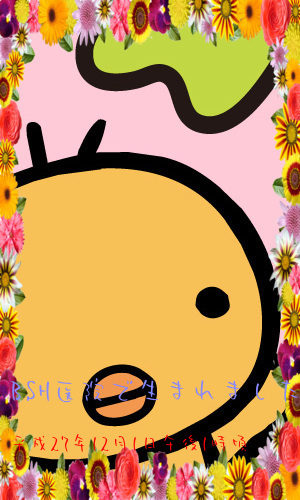
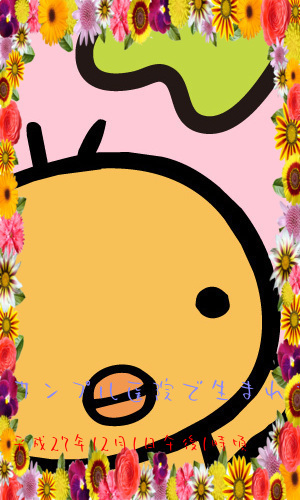
サンプル追加

Changed region(s): [[0.27, 0.75, 0.99, 0.81], [0.03, 0.75, 0.24, 0.81], [0.99, 0.75, 1.0, 0.78]]

diff --git a/src/jp/co/comster/im4j/sample/StringTestImageSample.java b/src/jp/co/comster/im4j/sample/StringTestImageSample.java
@@ -1,0 +1,96 @@
+package jp.co.comster.im4j.sample;
+
+import java.io.File;
+import java.text.SimpleDateFormat;
+import java.util.Date;
+
+import org.im4java.core.ConvertCmd;
+import org.im4java.core.IMOperation;
+
+public class StringTestImageSample {
+
+
+    public static void main(String[] args) throws Exception {
+
+		final SimpleDateFormat sdf = new SimpleDateFormat("yyyy/MM/dd HH:mm:ss.SSS");
+
+    	String basePath = System.getProperty("user.dir");
+    	String inimg = basePath + "/img/icon_maitama.jpg";
+    	String tmp1img = basePath + "/img/tmp1.jpg";
+    	String tmp2img = basePath + "/img/tmp1.jpg";
+    	String outimg = basePath + "/img/icon_maitama_str_sample_out.jpg";
+
+        File src = new File(inimg);
+        File tmp1 = new File(tmp1img);
+        File tmp2 = new File(tmp2img);
+        File dest = new File(outimg);
+
+
+        ConvertCmd cmd = new ConvertCmd();
+        cmd.setSearchPath("C:\\usr\\bin\\ImageMagick-6.9.2-7-portable-Q16-x86");
+//      cmd.setSearchPath("/opt/st_benesse_ne_jp/ImageMagick/bin/");
+
+        IMOperation op = new IMOperation(); //imagemagick operator for command line tools
+
+        //draw method
+        op.addImage(src.getAbsolutePath());
+//        op.resize(957, 626); //resizing image
+        op.pointsize(40); //size of text
+//        op.font("Times-New-Roman"); // font
+//      op.font(basePath + "/font/ArmedBanana.ttf"); // font
+      op.font(basePath + "/font/MEIRYO.TTC"); // font
+//        op.fill("Black"); //font color
+        op.fill("Red"); //font color
+        op.draw("text 50,800 '１２３４５６７８９０'"); // location of text, actual text
+        op.addImage(tmp1.getAbsolutePath());
+
+        Date date = new Date();
+        System.out.println("Start Time = " + sdf.format(date));
+        cmd.run(op);
+        System.out.println("End Time = " + sdf.format(new Date()) + "[" + (new Date().getTime() - date.getTime()) + "]" );
+
+        op = new IMOperation(); //imagemagick operator for command line tools
+
+        //draw method
+        op.addImage(tmp1.getAbsolutePath());
+//        op.resize(957, 626); //resizing image
+        op.pointsize(40); //size of text
+//        op.font("Times-New-Roman"); // font
+//      op.font(basePath + "/font/ArmedBanana.ttf"); // font
+      op.font(basePath + "/font/MEIRYO.TTC"); // font
+//        op.fill("Black"); //font color
+        op.fill("Red"); //font color
+        op.draw("text 50,850 '１２３４５６７８９０'"); // location of text, actual text
+        op.addImage(tmp2.getAbsolutePath());
+
+        date = new Date();
+        System.out.println("Start Time = " + sdf.format(date));
+        cmd.run(op);
+        System.out.println("End Time = " + sdf.format(new Date()) + "[" + (new Date().getTime() - date.getTime()) + "]" );
+
+        op = new IMOperation(); //imagemagick operator for command line tools
+
+        //draw method
+        op.addImage(tmp2.getAbsolutePath());
+//        op.resize(957, 626); //resizing image
+        op.pointsize(40); //size of text
+//        op.font("Times-New-Roman"); // font
+//      op.font(basePath + "/font/ArmedBanana.ttf"); // font
+      op.font(basePath + "/font/MEIRYO.TTC"); // font
+//        op.fill("Black"); //font color
+        op.fill("Red"); //font color
+        op.draw("text 50,900 '１２３４５'"); // location of text, actual text
+        op.addImage(dest.getAbsolutePath());
+
+        date = new Date();
+        System.out.println("Start Time = " + sdf.format(date));
+        cmd.run(op);
+        System.out.println("End Time = " + sdf.format(new Date()) + "[" + (new Date().getTime() - date.getTime()) + "]" );
+
+
+        tmp1.delete();
+        tmp2.delete();
+
+    }
+
+}

diff --git a/src/jp/co/comster/im4j/sample/RotationSample.java b/src/jp/co/comster/im4j/sample/RotationSample.java
@@ -1,0 +1,41 @@
+package jp.co.comster.im4j.sample;
+
+import java.io.File;
+import java.text.SimpleDateFormat;
+import java.util.Date;
+
+import org.im4java.core.ConvertCmd;
+import org.im4java.core.IMOperation;
+
+public class RotationSample {
+
+
+    public static void main(String[] args) throws Exception {
+
+		final SimpleDateFormat sdf = new SimpleDateFormat("yyyy/MM/dd HH:mm:ss.SSS");
+
+    	String basePath = System.getProperty("user.dir");
+    	String inimg = basePath + "/img/icon_maitama.jpg";
+    	String outimg = basePath + "/img/icon_maitama_rotation_out.jpg";
+
+        File src = new File(inimg);
+        File dest = new File(outimg);
+
+        ConvertCmd cmd = new ConvertCmd();
+        cmd.setSearchPath("C:\\usr\\bin\\ImageMagick-6.9.2-7-portable-Q16-x86");
+//      cmd.setSearchPath("/opt/st_benesse_ne_jp/ImageMagick/bin/");
+
+
+        IMOperation op = new IMOperation();
+        op.addImage(src.getAbsolutePath());
+        op.rotate((double)90);
+        op.addImage(dest.getAbsolutePath());
+        System.out.println(op.toString());
+
+        Date date = new Date();
+        System.out.println("Start Time = " + sdf.format(date));
+        cmd.run(op);
+        System.out.println("End Time = " + sdf.format(new Date()) + "[" + (new Date().getTime() - date.getTime()) + "]" );
+    }
+
+}

diff --git a/src/jp/co/comster/im4j/sample/PhoteCardSample.java b/src/jp/co/comster/im4j/sample/PhoteCardSample.java
@@ -28,8 +28,8 @@ public class PhoteCardSample {
         File photefile = new File(img_final);
 
         ConvertCmd cmd = new ConvertCmd();
-//      cmd.setSearchPath("C:\\usr\\bin\\ImageMagick-6.9.2-7-portable-Q16-x86");
-        cmd.setSearchPath("/opt/st_benesse_ne_jp/ImageMagick/bin/");
+      cmd.setSearchPath("C:\\usr\\bin\\ImageMagick-6.9.2-7-portable-Q16-x86");
+//        cmd.setSearchPath("/opt/st_benesse_ne_jp/ImageMagick/bin/");
 
 
         //ImageCut
@@ -74,7 +74,7 @@ public class PhoteCardSample {
 //      op.font(basePath + "/font/MEIRYO.TTC"); // font
 //      op.fill("Black"); //font color
       op.fill("#8888ff"); //font color
-      op.draw("text 10,400 'BSH医院で生まれました'"); // location of text, actual text
+      op.draw("text 10,400 'サンプル医院で生まれました'"); // location of text, actual text
       op.addImage(tmp1.getAbsolutePath());
         System.out.println(op.toString());
 
